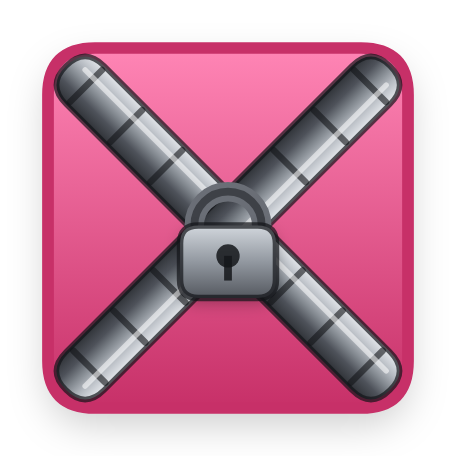
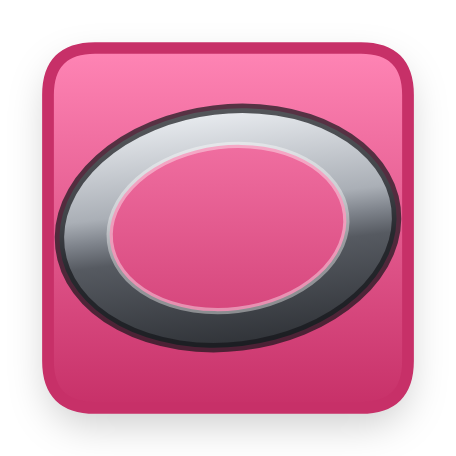
Ring idea: revert closed box to metal hoop (drop chains/padlock)
Per feedback, the closed heavy box uses the metal ring hoop (not chains
or a padlock). Remove the chain/padlock rendering and the chain-break on
open; box reveals plainly. Regenerate assets with the ring box.

Claude-Session: https://claude.ai/code/session_01PjGdK4EQRB6mJyeBT2zsHj

diff --git a/js/heavy.js b/js/heavy.js
@@ -69,65 +69,11 @@ function drawHeavyCore(x, y, r, coreScale) {
   ctx.restore();
 }
 
-// ── One metallic chain band running between two points ──
-function drawChainBand(x1, y1, x2, y2, thick) {
-  var ang = Math.atan2(y2 - y1, x2 - x1);
-  var len = Math.sqrt((x2 - x1) * (x2 - x1) + (y2 - y1) * (y2 - y1));
-  ctx.save();
-  ctx.translate((x1 + x2) / 2, (y1 + y2) / 2);
-  ctx.rotate(ang);
-  var g = ctx.createLinearGradient(0, -thick / 2, 0, thick / 2);
-  g.addColorStop(0, '#E7EAEE');
-  g.addColorStop(0.28, '#B4B9C0');
-  g.addColorStop(0.5, '#82888F');
-  g.addColorStop(0.72, '#4E525A');
-  g.addColorStop(1, '#2E3136');
-  ctx.fillStyle = g;
-  rRect(-len / 2, -thick / 2, len, thick, thick * 0.5); ctx.fill();
-  // link separations
-  ctx.strokeStyle = 'rgba(18,20,24,0.6)'; ctx.lineWidth = Math.max(0.8, thick * 0.12); ctx.lineCap = 'round';
-  var link = thick * 1.05;
-  for (var d = -len / 2 + link * 0.5; d < len / 2; d += link) {
-    ctx.beginPath(); ctx.moveTo(d, -thick * 0.42); ctx.lineTo(d, thick * 0.42); ctx.stroke();
-  }
-  // top highlight + dark outline
-  ctx.strokeStyle = 'rgba(255,255,255,0.55)'; ctx.lineWidth = Math.max(0.5, thick * 0.1);
-  ctx.beginPath(); ctx.moveTo(-len / 2 + thick * 0.3, -thick * 0.2); ctx.lineTo(len / 2 - thick * 0.3, -thick * 0.2); ctx.stroke();
-  ctx.strokeStyle = 'rgba(18,20,24,0.7)'; ctx.lineWidth = Math.max(0.8, thick * 0.1);
-  rRect(-len / 2, -thick / 2, len, thick, thick * 0.5); ctx.stroke();
-  ctx.restore();
-}
-
-// ── A small steel padlock at the chains' crossing ──
-function drawPadlock(cx, cy, size) {
-  ctx.save();
-  // shackle
-  ctx.strokeStyle = '#6A6E76'; ctx.lineWidth = size * 0.15; ctx.lineCap = 'round';
-  ctx.beginPath(); ctx.arc(cx, cy - size * 0.02, size * 0.26, Math.PI, Math.PI * 2); ctx.stroke();
-  ctx.strokeStyle = '#3E4147'; ctx.lineWidth = size * 0.06;
-  ctx.beginPath(); ctx.arc(cx, cy - size * 0.02, size * 0.26, Math.PI, Math.PI * 2); ctx.stroke();
-  // body
-  var bw = size * 0.74, bh = size * 0.56, bx = cx - bw / 2, by = cy - size * 0.02;
-  ctx.shadowColor = 'rgba(0,0,0,0.3)'; ctx.shadowBlur = size * 0.12; ctx.shadowOffsetY = size * 0.04;
-  var g = ctx.createLinearGradient(0, by, 0, by + bh);
-  g.addColorStop(0, '#D2D7DD'); g.addColorStop(0.5, '#9298A0'); g.addColorStop(1, '#54585F');
-  ctx.fillStyle = g;
-  rRect(bx, by, bw, bh, size * 0.14); ctx.fill();
-  ctx.shadowColor = 'transparent'; ctx.shadowBlur = 0; ctx.shadowOffsetY = 0;
-  ctx.strokeStyle = 'rgba(18,20,24,0.7)'; ctx.lineWidth = Math.max(0.8, size * 0.05);
-  rRect(bx, by, bw, bh, size * 0.14); ctx.stroke();
-  // keyhole
-  ctx.fillStyle = 'rgba(20,22,26,0.85)';
-  ctx.beginPath(); ctx.arc(cx, by + bh * 0.42, size * 0.09, 0, Math.PI * 2); ctx.fill();
-  ctx.fillRect(cx - size * 0.03, by + bh * 0.42, size * 0.06, bh * 0.34);
-  ctx.restore();
-}
-
 // ── A still-closed heavy box ──
-// Full box colour stays visible (so the player can read it), wrapped in
-// crossed metal CHAINS with a padlock — a chained-up "heavy" box. When it
-// opens the chains snap (see breakHeavyChains) and the weights spill out.
-// Hidden+heavy keeps the colour concealed. Box-local coords, origin centre.
+// Full box colour stays visible (so the player can read it), encircled by
+// a tilted metal hoop (annulus) — the box's own take on the ring, matching
+// the marbles but distinct. Hidden+heavy keeps the colour concealed.
+// Box-local coordinates, origin at box centre.
 function drawHeavyClosedBox(w, h, S, tick, ci, boxType) {
   var left = -w / 2, top = -h / 2, r = 6 * S;
 
@@ -144,12 +90,28 @@ function drawHeavyClosedBox(w, h, S, tick, ci, boxType) {
     drawBox(left, top, w, h, ci);
   }
 
-  // Crossed chains (X) + padlock. Colour shows in the corners.
-  var thick = h * 0.15;
-  var inset = w * 0.05;
-  drawChainBand(left + inset, top + inset, left + w - inset, top + h - inset, thick);
-  drawChainBand(left + w - inset, top + inset, left + inset, top + h - inset, thick);
-  drawPadlock(0, 0, h * 0.36);
+  // Metal hoop around the box middle (colour shows through the hole and
+  // above/below the ring).
+  ctx.save();
+  ctx.rotate(-0.12);
+  var rx = w * 0.47, ry = h * 0.33, band = Math.max(3 * S, h * 0.14);
+  var g = ctx.createLinearGradient(0, -ry, 0, ry);
+  g.addColorStop(0, '#E9ECF0');
+  g.addColorStop(0.4, '#AAAFB6');
+  g.addColorStop(0.5, '#7E838B');
+  g.addColorStop(0.6, '#565A61');
+  g.addColorStop(1, '#303338');
+  ctx.fillStyle = g;
+  ctx.beginPath();
+  ctx.ellipse(0, 0, rx, ry, 0, 0, Math.PI * 2);
+  ctx.ellipse(0, 0, rx - band, ry - band * 0.72, 0, 0, Math.PI * 2);
+  ctx.fill('evenodd');
+  // outer dark rim + inner bright rim
+  ctx.strokeStyle = 'rgba(20,22,26,0.7)'; ctx.lineWidth = Math.max(1, 1.2 * S);
+  ctx.beginPath(); ctx.ellipse(0, 0, rx, ry, 0, 0, Math.PI * 2); ctx.stroke();
+  ctx.strokeStyle = 'rgba(255,255,255,0.4)'; ctx.lineWidth = Math.max(0.6, 0.8 * S);
+  ctx.beginPath(); ctx.ellipse(0, 0, rx - band, ry - band * 0.72, 0, 0, Math.PI * 2); ctx.stroke();
+  ctx.restore();
 }
 
 // ── Soft "pop" when the core vanishes on landing ──
@@ -167,29 +129,4 @@ function popHeavyCore(m) {
   m.coreShrinking = true;
   m.coreT = m.coreT == null ? 1 : m.coreT;
   heavyPopSound();
-}
-
-// ── Chains snapping when the box opens ──
-// A burst of dark chain-link debris + a metallic "snap"; the heavy
-// weights are then free to spill out.
-function chainSnapSound() {
-  if (typeof tone !== 'function') return;
-  tone(220, 0.08, 'square', 0.12, 80);
-  tone(1400, 0.06, 'square', 0.05, 500);
-}
-
-function breakHeavyChains(cx, cy) {
-  for (var i = 0; i < 16; i++) {
-    var a = Math.PI * 2 * i / 16 + Math.random() * 0.5;
-    var sp = 3 + Math.random() * 5;
-    var col = Math.random() > 0.5 ? 'rgba(150,156,164,0.95)' : 'rgba(70,74,80,0.95)';
-    particles.push({
-      x: cx, y: cy,
-      vx: Math.cos(a) * sp * S, vy: Math.sin(a) * sp * S,
-      r: (2 + Math.random() * 3) * S, color: col,
-      life: 1, decay: 0.02 + Math.random() * 0.02, grav: true
-    });
-  }
-  spawnBurst(cx, cy, 'rgba(255,255,255,0.9)', 6);
-  chainSnapSound();
 }

diff --git a/js/game.js b/js/game.js
@@ -260,8 +260,6 @@ function updateBoxReveals(animate) {
           });
         }
         if (typeof sfx !== 'undefined' && sfx.pop) sfx.pop();
-        // Heavy box opening: its chains snap and the weights spill out.
-        if (b.heavy && typeof breakHeavyChains === 'function') breakHeavyChains(bx, by);
       }
     } else if (!hasPath && b.revealed) {
       b.revealed = false;
